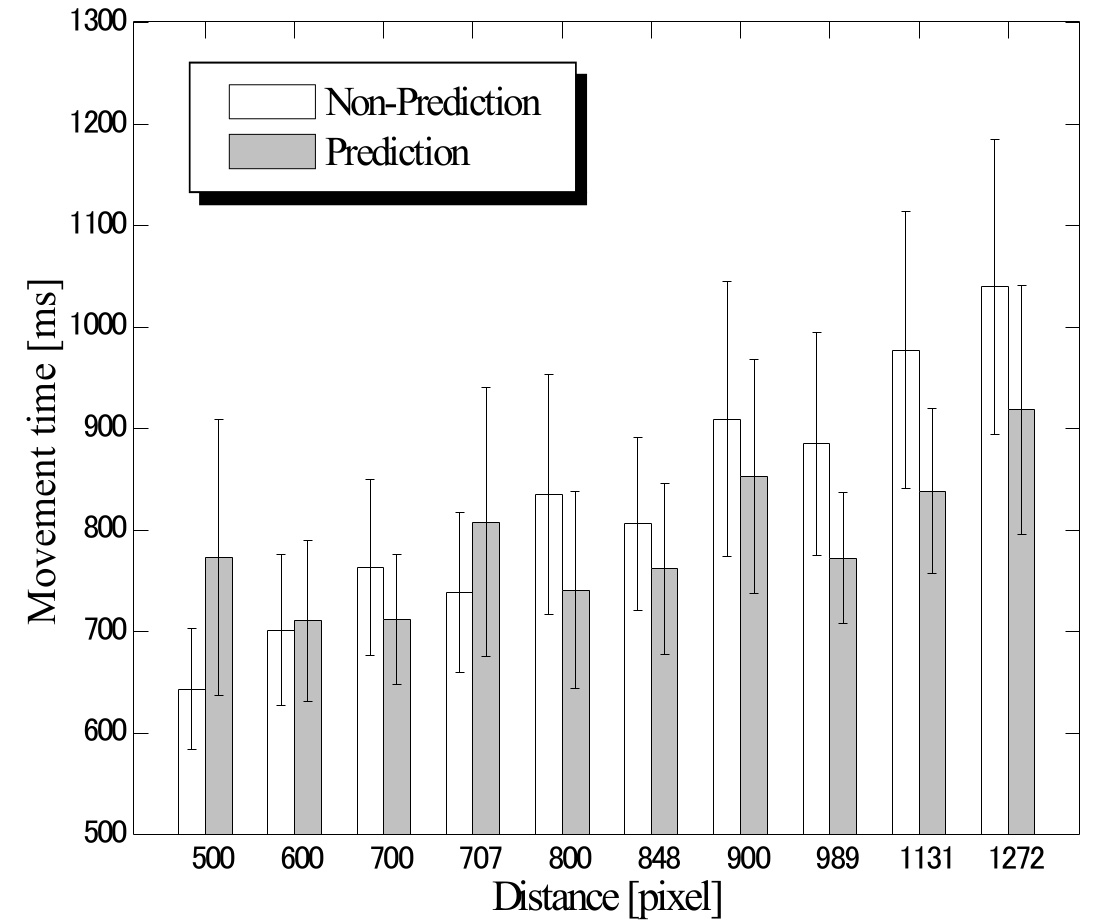
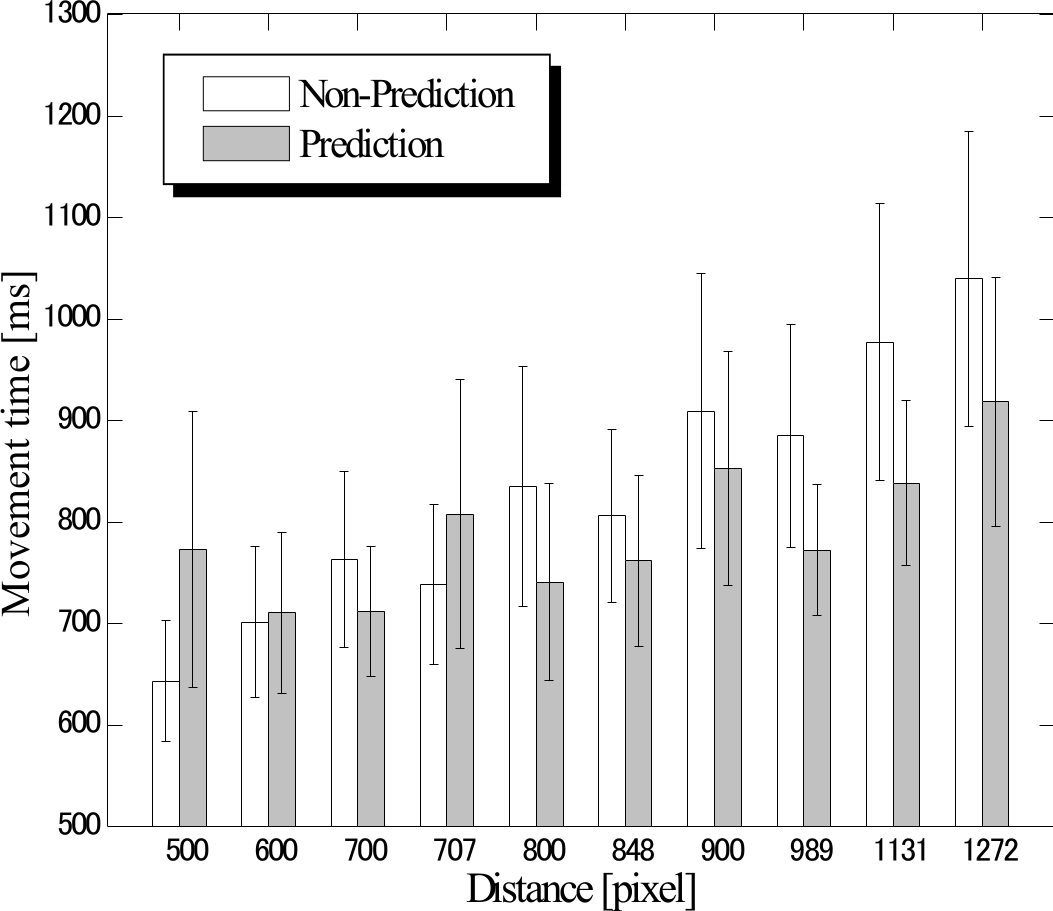
ch2 cleanup 27

diff --git a/chapitre2.tex b/chapitre2.tex
@@ -1068,32 +1068,36 @@ La technique \emph{AttachedShock} s'est montrée meilleure que toutes les autres
 	\subsubsection{Temps de sélection}
 	Les résultats obtenus par Asano \emph{et al.}\cite{asano2005predictive} sont présentés sur la figure~\ref{fig:delphianTimes}. On y constate que le \emph{Delphian Desktop} est plus lent que la sélection non assistée lorsque les cibles sont proches, mais plus rapides quand elles sont distantes.
 	
-	\begin{figure}[H]
-		\centering
-		\includegraphics[width=\textwidth]{figures/ch2/delphianTimes}
-		\caption[\emph{Delphian Desktop} -- temps de sélection]{Temps de sélection en fonction de la distance entre le curseur et la cible, avec le \emph{Delphian Desktop} (\emph{Prediction}, en gris) et sans (\emph{Non-Prediction}, en blanc). Cette technique se montre contre-productive pour les faibles distances, mais bénéfiques quand les distances sont grandes. Crédit : \cite{asano2005predictive}.}
-		\label{fig:delphianTimes}
+	\begin{figure}[!htb]
+		\begin{subfigure}[t]{0.49\textwidth}
+			\centering
+			\includegraphics[width=\textwidth]{figures/ch2/delphianTimes}
+			\caption{Temps de sélection en fonction de la distance entre le curseur et la cible, avec le \emph{Delphian Desktop} (\emph{Prediction}, en gris) et sans (\emph{Non-Prediction}, en blanc). Cette technique se montre contre-productive pour les faibles distances, mais bénéfiques quand les distances sont grandes.}
+			\label{fig:delphianTimes}
+		\end{subfigure}
+		~
+		\begin{subfigure}[t]{0.49\textwidth}
+			\centering
+			\includegraphics[width=\textwidth]{figures/ch2/delphianTimesErrors}
+			\caption{Temps de sélection en fonction de l'erreur de prédiction de la direction du mouvement. Quelle que soit la distance considérée, le temps de mouvement croît fortement avec l'erreur de prédiction, ce qui est logique car une grande erreur nécessite un plus grand mouvement correctif de la part de l'utilisateur.}
+			\label{fig:delphianTimesErrors}
+		\end{subfigure}
+		\caption[\emph{Delphian Desktop} -- performances]{\emph{Delphian Desktop} -- performances. Crédit : \cite{asano2005predictive}.}
+		\label{fig:plop}
 	\end{figure}
 
 	Cette tendance est d'ailleurs mieux illustrée par la figure~\ref{fig:delphianTimesID}, qui met en évidence les différences de pentes entre les droites qui représentent le temps de sélection en fonction de l'indice de difficulté (ID) pour la sélection non assistée et pour le \emph{Delphian Desktop}. On peut supposer que, pour des cibles d'ID très élevé, celui-ci serait d'autant plus avantageux.
 	
 	Il convient néanmoins de remarquer que dasns l'étude d'Asano \emph{et al.}, seule la distance variait, pas la taille des cibles ; de fait, cette courbe de temps en fonction de l'ID pourrait ne pas tenir lorsque les variations d'ID proviennent de variations dans les tailles des cibles. C'est un point qui mérite d'être examiné.
 
-	\begin{figure}[H]
+	\begin{wrapfigure}{O}{0.5\textwidth} % Capital O makes the figure float, because that's totally intuitive and obvious.
 		\centering
-		\includegraphics[width=\textwidth]{figures/ch2/delphianTimesID}
+		\includegraphics[width=0.46\textwidth]{figures/ch2/delphianTimesID}
 		\caption[\emph{Delphian Desktop} -- temps de sélection en fonction de l'ID]{Temps de sélection en fonction de l'indice de difficulté (ID), avec le \emph{Delphian Desktop} (\emph{Prediction}, en noir) et sans (\emph{Non-Prediction}, en blanc). Cette technique se montre contre-productive pour les faibles distances, mais bénéfiques quand les distances sont grandes. La droite qui estime son temps de sélection en fonction de l'ID est d'une pente nettement plus douce, ce qui est de bon augure pour d'hypothétiques cibles encore plus distantes. Crédit : \cite{asano2005predictive}.}
 		\label{fig:delphianTimesID}
-	\end{figure}
+	\end{wrapfigure}
 	
 	Asano \emph{et al.} ont par ailleurs mesuré les erreurs de prédiction de la direction du mouvement, c'est-à-dire l'écart angulaire entre la direction estimée par le \emph{Delphian Desktop} et la droite passant par le point de départ du curseur et par le centre de la cible. La figure~\ref{fig:delphianTimesErrors} présente les résultats obtenus. Quelle que soit la distance considérée, le temps de mouvement croît fortement avec l'erreur de prédiction, ce qui est logique car une grande erreur nécessite un plus grand mouvement correctif de la part de l'utilisateur.
-	
-	\begin{figure}[H]
-		\centering
-		\includegraphics[width=\textwidth]{figures/ch2/delphianTimesErrors}
-		\caption[\emph{Delphian Desktop} -- temps de sélection en fonction de l'erreur de prédiction]{Temps de sélection en fonction de l'erreur de prédiction de la direction du mouvement. Quelle que soit la distance considérée, le temps de mouvement croît fortement avec l'erreur de prédiction, ce qui est logique car une grande erreur nécessite un plus grand mouvement correctif de la part de l'utilisateur. Crédit : \cite{asano2005predictive}.}
-		\label{fig:delphianTimesErrors}
-	\end{figure}
 	
 	\subsubsection{Erreurs}
 	Une technique de sélection s'évalue en fonction de temps de sélection mais aussi en fonction des erreurs, et cet aspect ne fu pas oublié par les auteurs du \emph{Delphian Desktop}. En sus des erreurs de prédiction de direction mentionnées plus haut, ils ont mesuré les taux d'erreurs (les clics hors de la cible), les ratios d'erreur de distance $R_{ED}$ définis par $R_{ED} = D_{E}/D$ où $D_{E}$ est la distance entre le point d'arrivée du \og saut \fg{} effectué par le \emph{Delphian Desktop} et la cible, et $D$ est la distance entre le point de départ du curseur et la cible. Les erreurs mesurées sont détaillées dans la table~\ref{tab:delphianErrors}.
